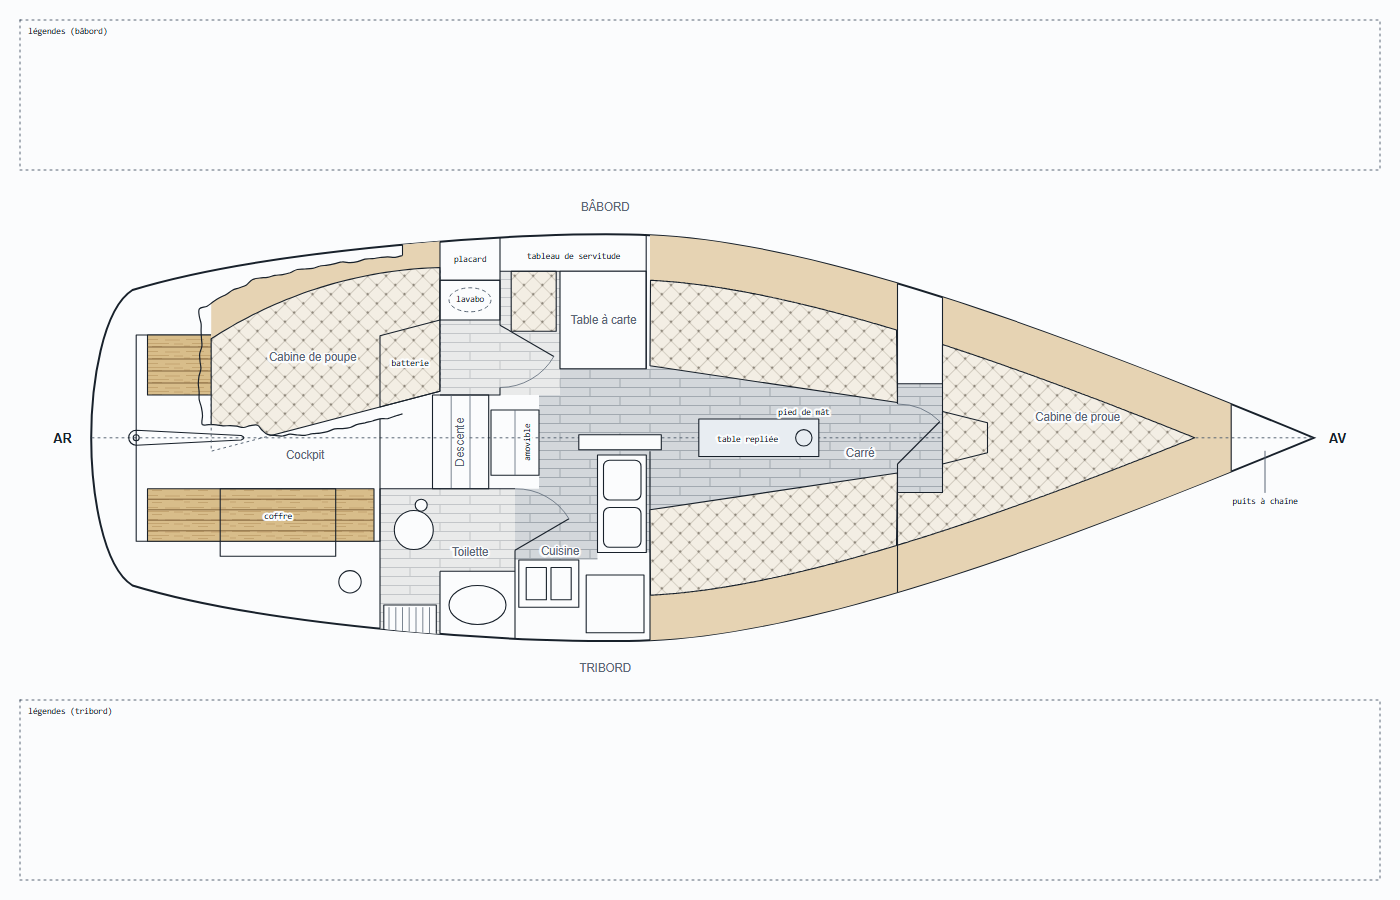
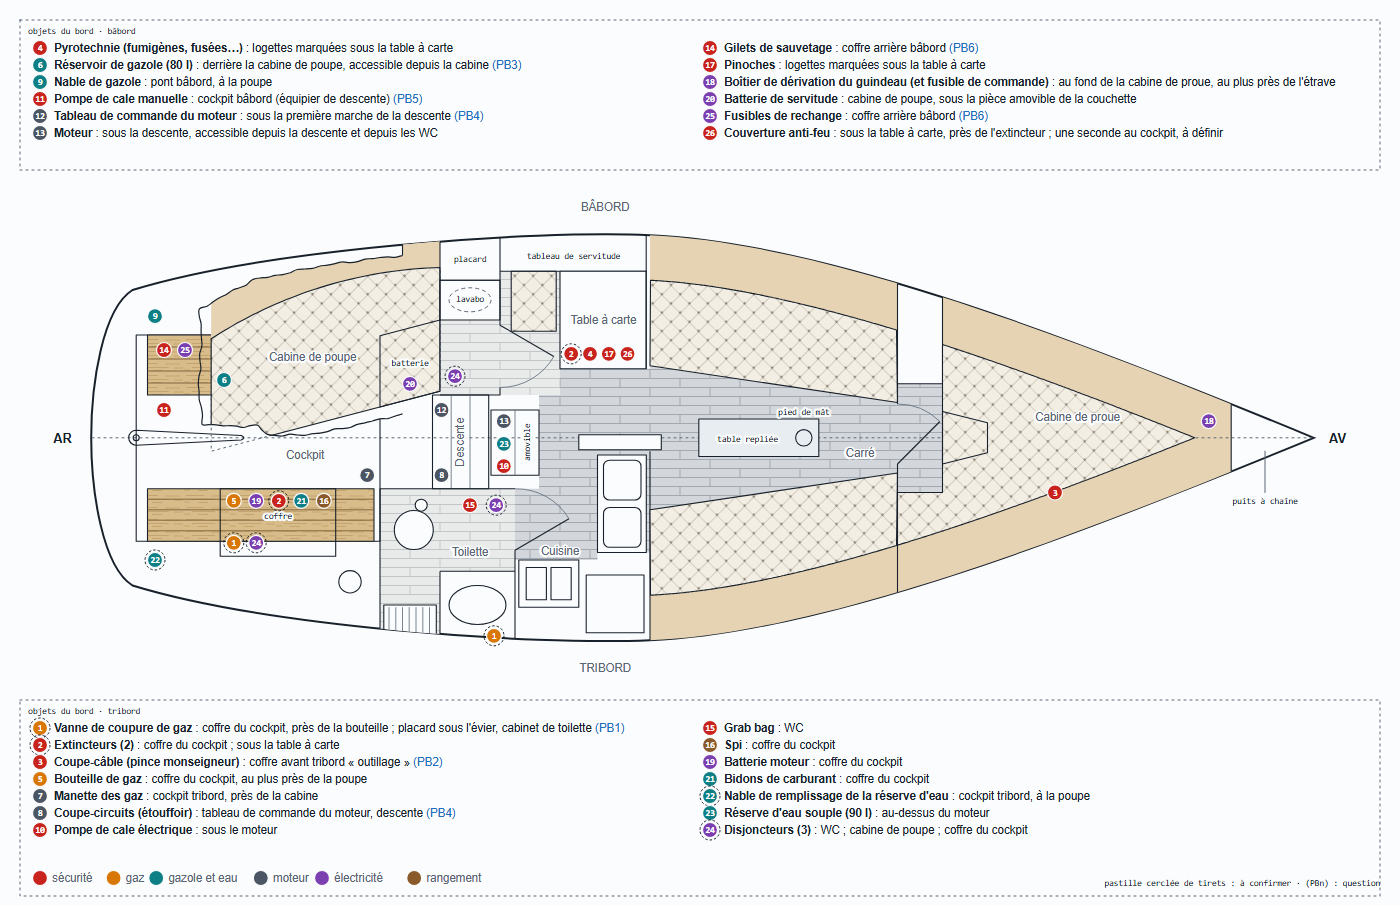
Plan de bord : premier essai de placement des objets du bord
D'après la feuille « Emplacement trucs bateau » : 26 objets dans objets.yaml,
pastilles numérotées par catégorie sur le plan (tirets : à confirmer) et
légendes par bord. Questions PB1 à PB6 dans le README.

diff --git a/brouillons/plan-de-bord/plan_bord.py b/brouillons/plan-de-bord/plan_bord.py
@@ -6,6 +6,8 @@ puis converties en coordonnées SVG par P(). Avant à droite, bâbord en haut.
 import re
 from pathlib import Path
 
+import yaml
+
 ICI = Path(__file__).parent
 # même bloc <style> que le folio 0
 FOLIO0 = ICI.parent.parent / "Electricité" / "schemas" / "folio-0-implantation.svg"
@@ -25,6 +27,13 @@ STYLE = STYLE.replace("  </style>", """    .amg{fill:none;stroke:var(--ink);stro
     .vaig{fill:none;stroke:var(--vaig)}.vaig-f{fill:var(--vaig)}
     .amg-d{fill:none;stroke:var(--muted);stroke-width:1;stroke-dasharray:4 3}
     .arr{fill:none;stroke:var(--ink);stroke-width:1.2;stroke-linejoin:round}
+    svg{--c-securite:#c8231c;--c-gaz:#d97706;--c-fluides:#0f7f86;--c-moteur:#4b5563;--c-electricite:#7b3fb0;--c-rangement:#8a5a2b}
+    @media (prefers-color-scheme: dark){svg{--c-securite:#e5483f;--c-gaz:#f59e0b;--c-fluides:#22a6ad;--c-moteur:#7b8794;--c-electricite:#a46be0;--c-rangement:#b07a45}}
+    .obj circle{stroke:var(--sheet);stroke-width:1.2}
+    .obj text{fill:#fff;font-family:"IBM Plex Mono",Consolas,monospace;font-size:8.5px;font-weight:600;text-anchor:middle}
+    .obj .conf{fill:none;stroke:var(--ink);stroke-width:1;stroke-dasharray:2.5 2}
+    .securite circle{fill:var(--c-securite)}.gaz circle{fill:var(--c-gaz)}.fluides circle{fill:var(--c-fluides)}
+    .moteur circle{fill:var(--c-moteur)}.electricite circle{fill:var(--c-electricite)}.rangement circle{fill:var(--c-rangement)}
   </style>""")
 # textures (motifs en px)
 DEFS = """  <defs>
@@ -333,20 +342,57 @@ el.append(text("pin mid halo", 965, 292, "pied de mât"))
 el.append(text("pin mid halo", 1580, 410, "puits à chaîne"))
 el.append(path("leader", (1580, 395), (1580, 340)))
 
-svg = f'''<svg xmlns="http://www.w3.org/2000/svg" viewBox="0 0 1400 900" role="img" aria-label="Plan de bord vu de dessus : aménagement intérieur et pont du Gib'Sea 31, fond de plan vierge.">
+# --- Objets du bord (phase 2) : pastilles numérotées et légendes ---
+OBJ = yaml.safe_load((ICI / "objets.yaml").read_text(encoding="utf-8"))["objets"]
+CAT = [("securite", "sécurité"), ("gaz", "gaz"), ("fluides", "gazole et eau"), ("moteur", "moteur"),
+       ("electricite", "électricité"), ("rangement", "rangement")]
+
+
+def pastille(o, X, Y):
+    conf = '<circle class="conf" r="10"/>' if o.get("a_confirmer") else ""
+    return (f'<g class="obj {o["categorie"]}" transform="translate({X:.1f} {Y:.1f})">{conf}'
+            f'<circle r="7.5"/><text y="3">{o["n"]}</text></g>')
+
+
+def esc(t):
+    return t.replace("&", "&amp;").replace("<", "&lt;").replace(">", "&gt;")
+
+
+el.append('<!-- Objets du bord : pastilles (tirets : à confirmer) -->')
+for o in OBJ:
+    for x, y in o["positions"]:
+        el.append(pastille(o, OX + K * x, OY + K * y))
+leg = []
+for cote, y0, objs in (("bâbord", 52, [o for o in OBJ if o["positions"][0][1] < CY]),
+                       ("tribord", 732, [o for o in OBJ if o["positions"][0][1] >= CY])):
+    rangs = (len(objs) + 1) // 2
+    for i, o in enumerate(objs):
+        X, Y = (40 if i < rangs else 710), y0 + 17 * (i % rangs)
+        txt = f'<tspan class="tb" style="font-size:11.5px">{esc(o["nom"])}</tspan> : {esc(o["emplacement"])}'
+        if o.get("question"):
+            txt += f' <tspan class="tu">({o["question"]})</tspan>'
+        leg.append(pastille(o, X, Y - 4) + f'<text class="t" style="font-size:11.5px" x="{X + 14}" y="{Y}">{txt}</text>')
+x = 40
+leg.append('<text class="pin" x="1380" y="886" text-anchor="end">pastille cerclée de tirets : à confirmer · (PBn) : question</text>')
+for c, nom in CAT:
+    leg.append(pastille({"categorie": c, "n": ""}, x, 878) + f'<text class="ts" x="{x + 12}" y="882">{nom}</text>')
+    x += 24 + 6.2 * len(nom)
+
+svg = f'''<svg xmlns="http://www.w3.org/2000/svg" viewBox="0 0 1400 905" role="img" aria-label="Plan de bord vu de dessus : aménagement intérieur, pont et objets du bord du Gib'Sea 31.">
   <title>Folio 6 · Plan de bord</title>
-  <desc>Vue de dessus, avant à droite, bâbord en haut, redessinée d'après le plan d'emménagement du constructeur. Fond de plan vierge : les objets du bord (sécurité, armement) y seront placés avec leurs légendes.</desc>
+  <desc>Vue de dessus, avant à droite, bâbord en haut, redessinée d'après le plan d'emménagement du constructeur. Objets du bord (sécurité, gaz, fluides, moteur, électricité) repérés par des pastilles numérotées, légendées par bord ; premier essai d'après la feuille « Emplacement trucs bateau ».</desc>
 {STYLE}{DEFS}  <rect class="bg" x="0" y="0" width="100%" height="100%"/>
   ''' + "\n  ".join(el) + f'''
   <text class="ts mid" x="{OX+K*700:.0f}" y="{OY+K*20:.0f}">BÂBORD</text>
   <text class="ts mid" x="{OX+K*700:.0f}" y="{OY+K*635:.0f}">TRIBORD</text>
   <text class="tb" x="{OX+K*1665:.0f}" y="{OY+K*CY+5:.0f}">AV</text>
   <text class="tb end" x="{OX-8:.0f}" y="{OY+K*CY+5:.0f}">AR</text>
-  <!-- Zones de légende réservées (phase 3) -->
+  <!-- Légendes des objets -->
   <rect class="bound" x="20" y="20" width="1360" height="150"/>
-  <text class="pin" x="28" y="34">légendes (bâbord)</text>
-  <rect class="bound" x="20" y="700" width="1360" height="180"/>
-  <text class="pin" x="28" y="714">légendes (tribord)</text>
+  <text class="pin" x="28" y="34">objets du bord · bâbord</text>
+  <rect class="bound" x="20" y="700" width="1360" height="196"/>
+  <text class="pin" x="28" y="714">objets du bord · tribord</text>
+  ''' + "\n  ".join(leg) + '''
 </svg>
 '''
 (ICI / "folio-6-plan-de-bord.svg").write_text(svg, encoding="utf-8")

diff --git a/brouillons/plan-de-bord/README.md b/brouillons/plan-de-bord/README.md
@@ -5,9 +5,19 @@ Nouveau folio vu de dessus recensant les objets importants du bord (fusées de d
 Phases :
 
 1. Fond de plan vide, redessiné d'après `plan-emmenagements-constructeur.jpg` : fait le 16/10 (`folio-6-plan-de-bord.svg`, aperçu `apercu.png`), puis corrigé d'après les remarques de l'utilisateur. Écarts voulus avec le plan constructeur : lavabo de la cabine de poupe déposé (son emplacement est marqué en pointillés sur le meuble bas, conservé avec le placard), couchette de la cabine de poupe montrée par un arrachement du cockpit à main levée (côté bâbord, jusqu'à l'axe), bord bâbord en arc jusqu'au placard avec vaigrage côté coque, pièce amovible d'accès à la batterie dans son coin avant tribord, penderie tribord de la cabine de proue supprimée (la couchette va jusqu'au carré), table du carré représentée repliée, quille et liston non dessinés. Portes avec leur ouverture : cabine de poupe, cabinet de toilette, cabine de proue. Textures (reprises de `plan_voilier_v2.svg`) : planchers en lames sur deux niveaux (carré et cuisine ; cabine de poupe, table à carte et cabinet de toilette), arrêtés au milieu des assises ; matelassage capitonné des assises et de la couchette de proue ; vaigrages brun clair, du bord au dossier, dans le carré et la cabine de proue ; teck des bancs du cockpit.
-2. Données des objets dans le relevé : nom, description, couleur, zone, affichage sur ce plan.
-3. Légendes dessinées sur le folio.
+2. Données des objets : premier essai le 19/10 dans `objets.yaml`, d'après la feuille Google « Emplacement trucs bateau » (lue sans la modifier). Chaque objet a un numéro, une catégorie (couleur de la pastille), son emplacement en clair et ses positions sur le plan, toutes estimées. À reporter dans le relevé quand les emplacements seront confirmés.
+3. Légendes : premier essai, pastilles numérotées sur le plan (cerclées de tirets quand la feuille dit « à confirmer ») et liste par bord dans les cadres du haut et du bas, avec la clé des couleurs.
 
-`python brouillons/plan-de-bord/plan_bord.py` régénère le SVG ; il reprend le bloc `<style>` du folio 0 et y ajoute les classes `amg`, `amg-f`, `amg-b`, `amg-d`, `amg-l`, `arr`, `halo`, `sol-b`, `sol-h`, `mat`, `teck`, `teck-j`, `vaig`, `vaig-f`, les variables de couleur des textures et leurs motifs (`<defs>`), à reporter dans tous les folios et dans `page.py` à l'intégration.
+Questions ouvertes (phase 2) :
+
+- **PB1** Vanne de coupure de gaz, « placard sous évier à gauche cabinet de toilette » : sous le lavabo du cabinet de toilette (placée là) ou sous l'évier de la cuisine ?
+- **PB2** Coupe-câble, « coffre avant tribord "outillage" » : coffre sous la couchette de proue côté tribord (placé là), ou coffre de pont ?
+- **PB3** Réservoir de gazole, « derrière la cabine bâbord » : au fond de la couchette de poupe, sous le cockpit (placé là) ?
+- **PB4** « Coupe-circuits (étouffoir) » : la tirette d'arrêt du moteur, ou les coupe-circuits électriques de la descente ? Le tableau de commande est-il sous la marche du haut (placé là) ou du bas ?
+- **PB5** Pompe de cale manuelle, « cockpit bâbord » : sur l'hiloire, le banc ou le plancher ? Que veut dire « équipier de descente » ?
+- **PB6** Coffre arrière bâbord (gilets, fusibles de rechange) : il n'est pas dessiné. Sous l'arrière du banc bâbord ? Dimensions ?
+- Seconde couverture anti-feu « au cockpit, à définir » : non placée. Ligne « rajouter partie électrique importante » : quels éléments (coupe-circuits, tableau de servitude, disjoncteurs…) ?
+
+`python brouillons/plan-de-bord/plan_bord.py` régénère le SVG ; il reprend le bloc `<style>` du folio 0 et y ajoute les classes `amg`, `amg-f`, `amg-b`, `amg-d`, `amg-l`, `arr`, `halo`, `sol-b`, `sol-h`, `mat`, `teck`, `teck-j`, `vaig`, `vaig-f`, `obj`, `conf` et les classes de catégorie, les variables de couleur des textures et leurs motifs (`<defs>`), à reporter dans tous les folios et dans `page.py` à l'intégration.
 
 Hors de `Electricité/` tant que l'emplacement définitif n'est pas décidé (proposé : `Electricité/livret/`, ou un dossier propre à l'armement) ; le vérificateur ne le contrôle donc pas encore.
